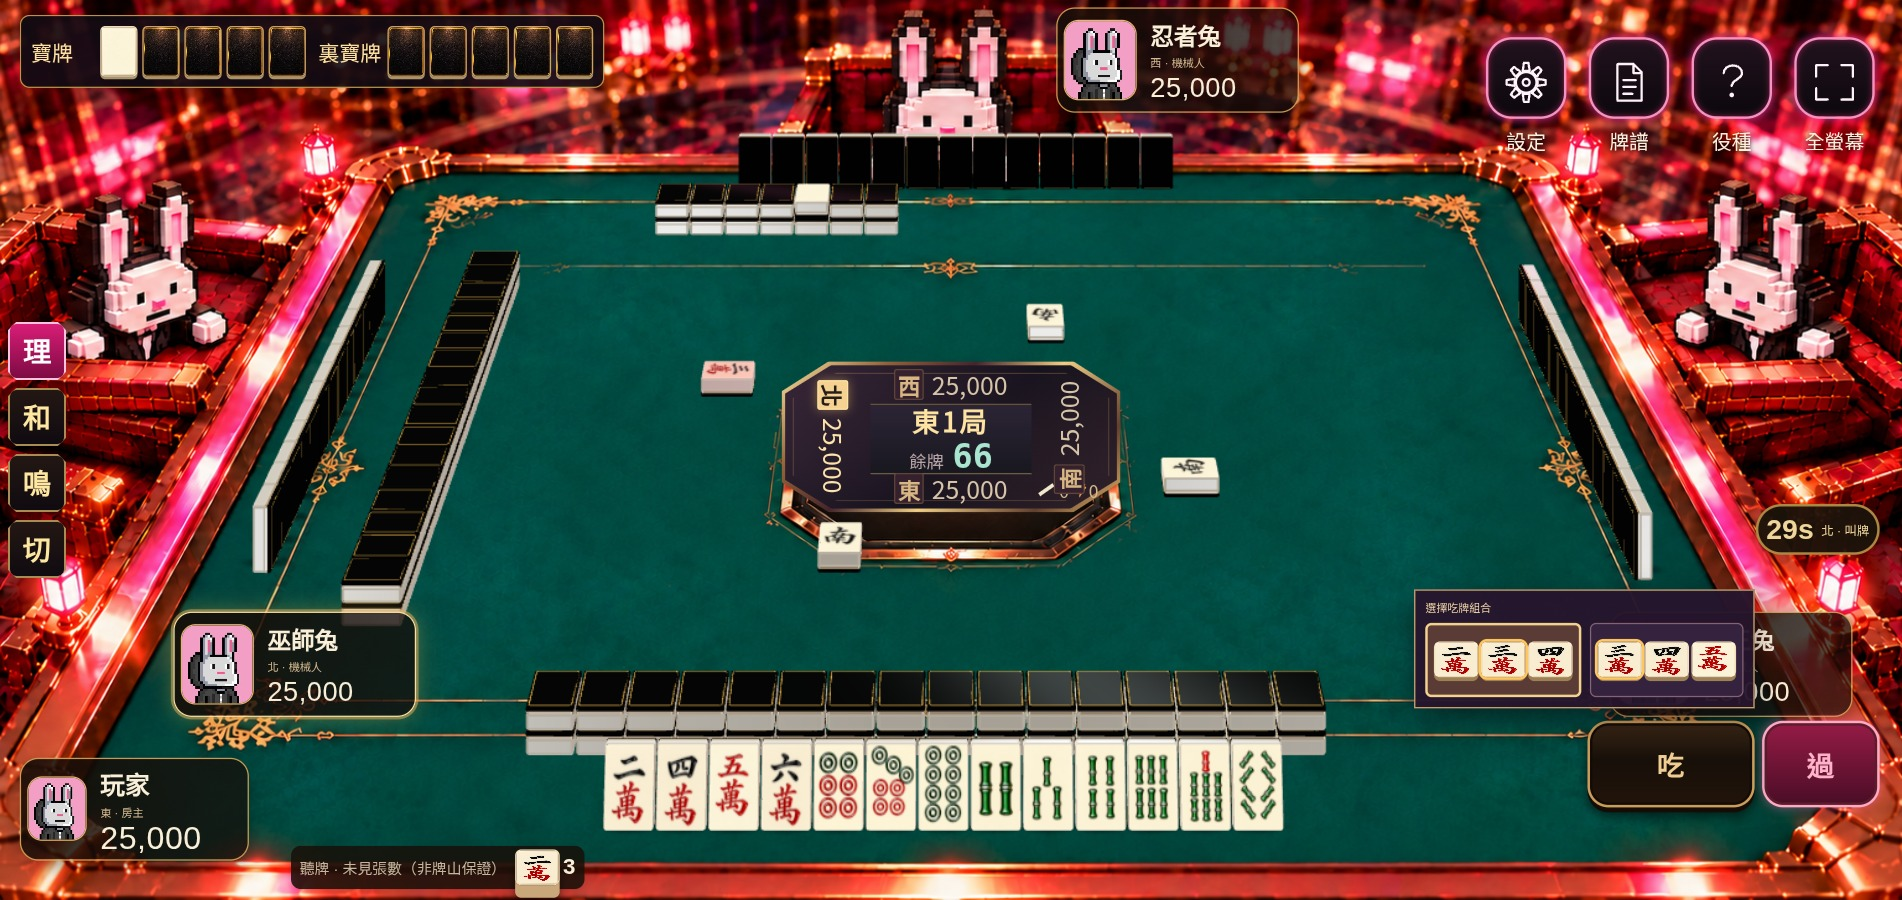
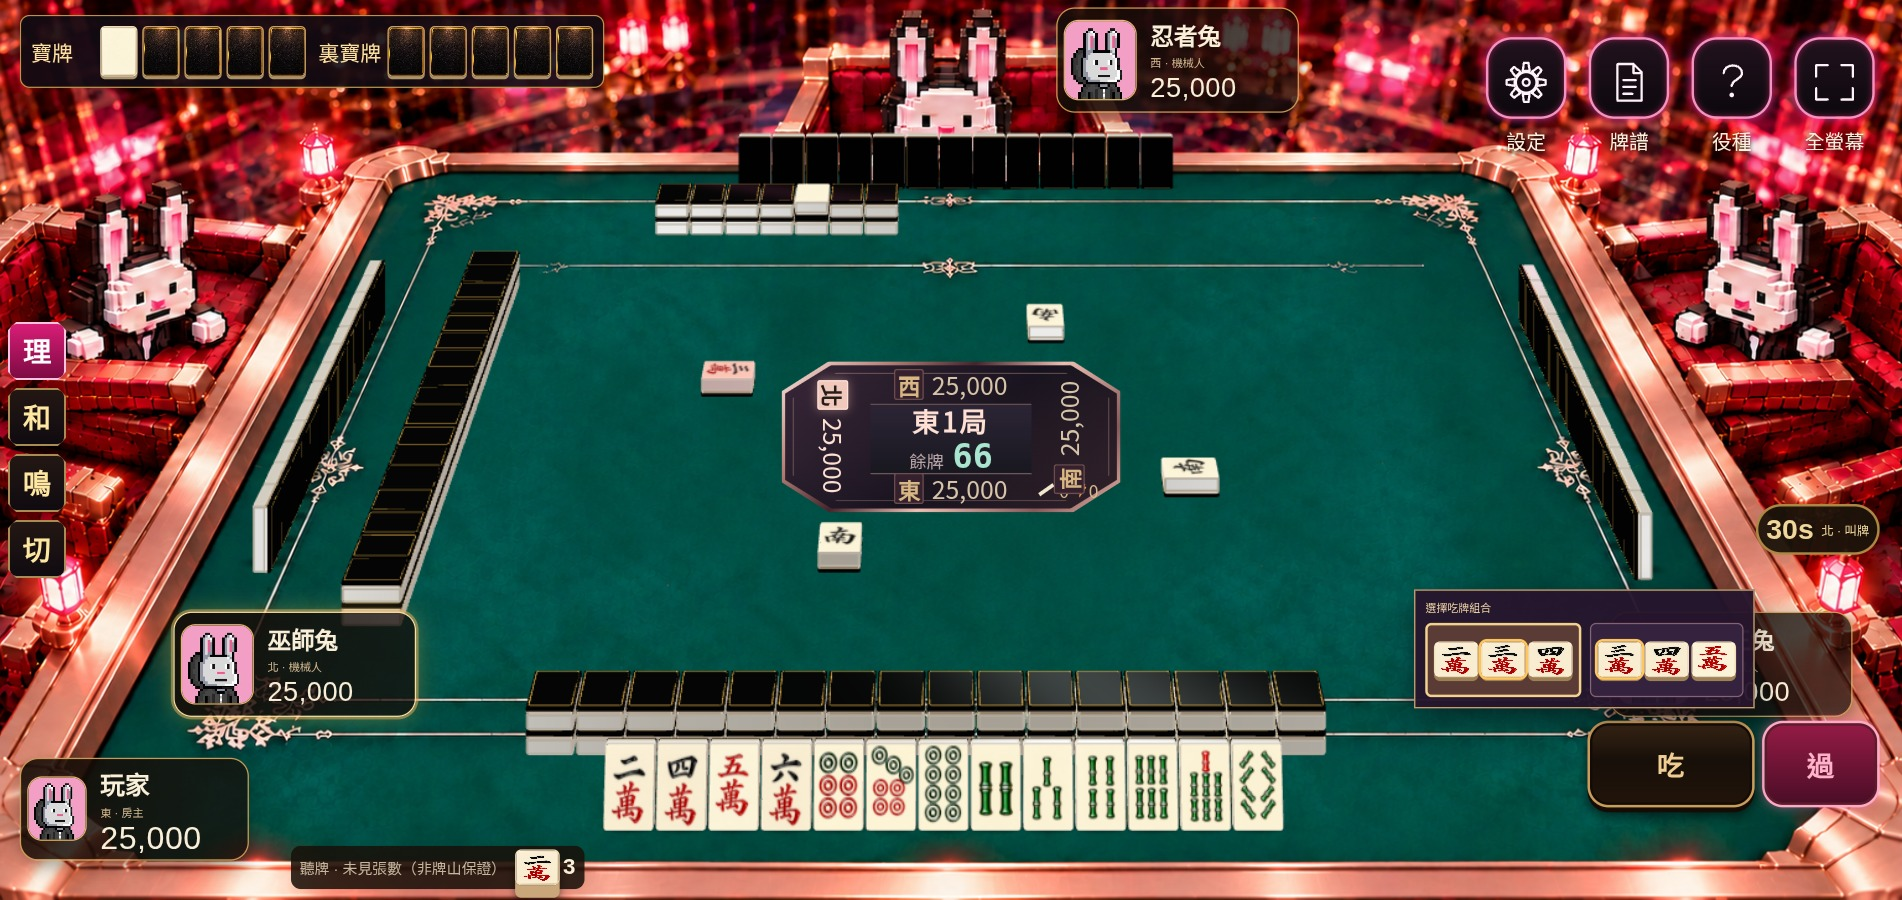
Refine table and hub to soft rose gold and clear old center pocket

diff --git a/Bunny_Gala_Riichi_v2.7.2/client/src/round-hub.css b/Bunny_Gala_Riichi_v2.7.2/client/src/round-hub.css
@@ -1,6 +1,6 @@
 /* One reserved hub, centered between the four fixed river origins. */
 .table .round-center.gala-round-hub{position:absolute;left:50%;top:calc(var(--view-height)*.4853);width:274px;height:122px;transform:translate(-50%,-50%);display:block!important;padding:0;border:0!important;border-radius:0!important;box-shadow:none!important;background:none!important;isolation:isolate;pointer-events:none;font-family:'Noto Sans TC',sans-serif;color:#ffedc6}
-.gala-round-hub:before{display:none!important}.hub-bezel{position:absolute;inset:0;clip-path:polygon(14% 0,86% 0,100% 20%,100% 80%,86% 100%,14% 100%,0 80%,0 20%);background:linear-gradient(135deg,#ffe7a3 0%,#936139 22%,#44252c 40%,#f1ce83 58%,#63402e 82%,#e5b76b);filter:drop-shadow(0 5px 4px #0009)}.hub-bezel:before{content:'';position:absolute;inset:3px;background:linear-gradient(135deg,#382638,#17131e 54%,#30212a);clip-path:inherit}.hub-bezel:after{content:'';position:absolute;inset:9px;border:1px solid #d6aa6244;clip-path:inherit;background:radial-gradient(ellipse,#5e3a431f,#0000)}
-.hub-seat{position:absolute;display:flex;align-items:center;justify-content:center;gap:6px;height:30px;min-width:100px;color:#d8c5aa;font-size:20px;font-variant-numeric:tabular-nums;line-height:1;z-index:2}.hub-seat b{display:grid;place-items:center;width:24px;height:25px;background:#35212d;color:#d8b785;font-size:18px;border:1px solid #a07a4a66;border-radius:2px}.hub-seat.active b{color:#241b18;background:#f5d292;border-color:#ffe3a4;box-shadow:0 0 9px #ebbc6377}.hub-seat.active span{color:#ffe5ac}.hub-seat-0{bottom:4px;left:50%;transform:translateX(-50%)}.hub-seat-2{top:4px;left:50%;transform:translateX(-50%)}.hub-seat-1{right:-8px;top:50%;transform:translateY(-50%) rotate(-90deg)}.hub-seat-3{left:-8px;top:50%;transform:translateY(-50%) rotate(90deg)}
-.hub-core{position:absolute;inset:34px 72px 31px;display:flex;flex-direction:column;justify-content:center;align-items:center;border-top:1px solid #d1ae5b66;border-bottom:1px solid #d1ae5b66;background:linear-gradient(#2c2435,#181820);line-height:1.1;gap:4px}.hub-core>strong{font-size:22px;font-weight:700;color:#ffe3a3;letter-spacing:2px}.hub-core>div{display:flex;align-items:baseline;gap:7px}.hub-core>div>span{font-size:14px;color:#b9a5a7}.hub-core>div>b{font:700 27px/1 'Bunny Pixel',monospace;color:#a9e5cf;font-variant-numeric:tabular-nums}.hub-core>small{display:none}.hub-deposits{position:absolute;bottom:8px;right:18px;display:flex;gap:7px;font-size:14px;color:#d9bc8f}.hub-deposits>span{display:flex;align-items:center;gap:3px}.hub-honba{width:14px;height:3px;background:#f1e9cc;display:inline-block;transform:rotate(-35deg)}.hub-carrot{width:6px;height:12px;background:#ef9a4b;display:inline-block;clip-path:polygon(0 15%,35% 15%,35% 0,70% 0,70% 15%,100% 15%,70% 100%);transform:rotate(25deg)}
+.gala-round-hub:before{display:none!important}.hub-bezel{position:absolute;inset:0;clip-path:polygon(14% 0,86% 0,100% 20%,100% 80%,86% 100%,14% 100%,0 80%,0 20%);background:linear-gradient(135deg,#ffe6e0 0%,#b78178 22%,#44252c 40%,#edbfb2 58%,#875a5a 82%,#e9b5a8);filter:drop-shadow(0 5px 4px #0009)}.hub-bezel:before{content:'';position:absolute;inset:3px;background:linear-gradient(135deg,#382638,#17131e 54%,#30212a);clip-path:inherit}.hub-bezel:after{content:'';position:absolute;inset:9px;border:1px solid #e8b9ac55;clip-path:inherit;background:radial-gradient(ellipse,#5e3a431f,#0000)}
+.hub-seat{position:absolute;display:flex;align-items:center;justify-content:center;gap:6px;height:30px;min-width:100px;color:#d8c5aa;font-size:20px;font-variant-numeric:tabular-nums;line-height:1;z-index:2}.hub-seat b{display:grid;place-items:center;width:24px;height:25px;background:#35212d;color:#d8b785;font-size:18px;border:1px solid #c5918266;border-radius:2px}.hub-seat.active b{color:#241b18;background:#f1c8bc;border-color:#ffe2d9;box-shadow:0 0 9px #eab6a577}.hub-seat.active span{color:#ffe1d5}.hub-seat-0{bottom:4px;left:50%;transform:translateX(-50%)}.hub-seat-2{top:4px;left:50%;transform:translateX(-50%)}.hub-seat-1{right:-8px;top:50%;transform:translateY(-50%) rotate(-90deg)}.hub-seat-3{left:-8px;top:50%;transform:translateY(-50%) rotate(90deg)}
+.hub-core{position:absolute;inset:34px 72px 31px;display:flex;flex-direction:column;justify-content:center;align-items:center;border-top:1px solid #d1a39766;border-bottom:1px solid #d1a39766;background:linear-gradient(#2c2435,#181820);line-height:1.1;gap:4px}.hub-core>strong{font-size:22px;font-weight:700;color:#ffe0d4;letter-spacing:2px}.hub-core>div{display:flex;align-items:baseline;gap:7px}.hub-core>div>span{font-size:14px;color:#b9a5a7}.hub-core>div>b{font:700 27px/1 'Bunny Pixel',monospace;color:#a9e5cf;font-variant-numeric:tabular-nums}.hub-core>small{display:none}.hub-deposits{position:absolute;bottom:8px;right:18px;display:flex;gap:7px;font-size:14px;color:#d9bc8f}.hub-deposits>span{display:flex;align-items:center;gap:3px}.hub-honba{width:14px;height:3px;background:#f1e9cc;display:inline-block;transform:rotate(-35deg)}.hub-carrot{width:6px;height:12px;background:#ef9a4b;display:inline-block;clip-path:polygon(0 15%,35% 15%,35% 0,70% 0,70% 15%,100% 15%,70% 100%);transform:rotate(25deg)}
 @media(orientation:landscape) and (max-height:500px){.gala-round-hub .hub-seat{font-size:calc(12px / var(--scene-scale))}.gala-round-hub .hub-seat b{font-size:calc(12px / var(--scene-scale))}.gala-round-hub .hub-core>strong{font-size:calc(15px / var(--scene-scale))}.gala-round-hub .hub-core>small{display:none}.gala-round-hub .hub-core>div>span{font-size:calc(10px / var(--scene-scale))}}

diff --git a/Bunny_Gala_Riichi_v2.7.2/client/src/table-backdrop.ts b/Bunny_Gala_Riichi_v2.7.2/client/src/table-backdrop.ts
@@ -1,3 +1,3 @@
 /** The approved V11 plate already contains the chairs and rabbits. */
-export const TABLE_BACKDROP='/art/empty-plate.png';
+export const TABLE_BACKDROP='/art/gala-table-rose-gold.png';
 export function backdropTransform(height:number){const x=1536/1850,y=height/850;return{css:`scale(${x},${y})`,point(a:number,b:number){return{x:a*x,y:b*y}}};}

diff --git a/Bunny_Gala_Riichi_v2.7.2/client/src/product.css b/Bunny_Gala_Riichi_v2.7.2/client/src/product.css
@@ -348,4 +348,4 @@
 /* Keep the opposite score card above the entire exposed-meld row. */
 .table .scene-pos-2{left:calc(50% + 85px);top:6px}
 
-.table-backdrop{background-image:url('/art/empty-plate.png')}
+.table-backdrop{background-image:url('/art/gala-table-rose-gold.png')}

diff --git a/Bunny_Gala_Riichi_v2.7.2/docs/qa-approved-table/README.md b/Bunny_Gala_Riichi_v2.7.2/docs/qa-approved-table/README.md
@@ -1,8 +1,10 @@
-# Approved atlas / V11 table integration
+# Approved atlases / rose-gold table integration
 
 Based on `codex/clear-table-scene` at 8f2169f95a002a0215dc5635cb1bcca08f2e8271.
 
 The four existing atlases and peacock image remain unchanged. The V11 `docs/art-previews/full-table-fixed-v11/empty-plate.png` is copied byte-for-byte to `client/public/art/empty-plate.png`. The same calibrated broad-table projection drives DOM hit targets and WebGL tiles. This is an art-fitted camera, not a physical 60-degree camera.
+
+The runtime table uses `gala-table-rose-gold.png`, a separate material refinement of the retained V11 plate: soft rose-gold outer rim and ornament lines, with the old central black pocket removed for the new hub. The original `empty-plate.png` and all atlas PNGs remain unchanged.
 
 The actual App now uses a four-seat round hub with live scores, seat/turn state, remaining tiles, honba and pot. Chi choices are anchored above a single Chi confirmation button. The prior result-sheet and four-way settlement components are retained and use the existing atlas-backed MiniTile. The result overlay owns pointer events independently of the gameplay control rail.
 
